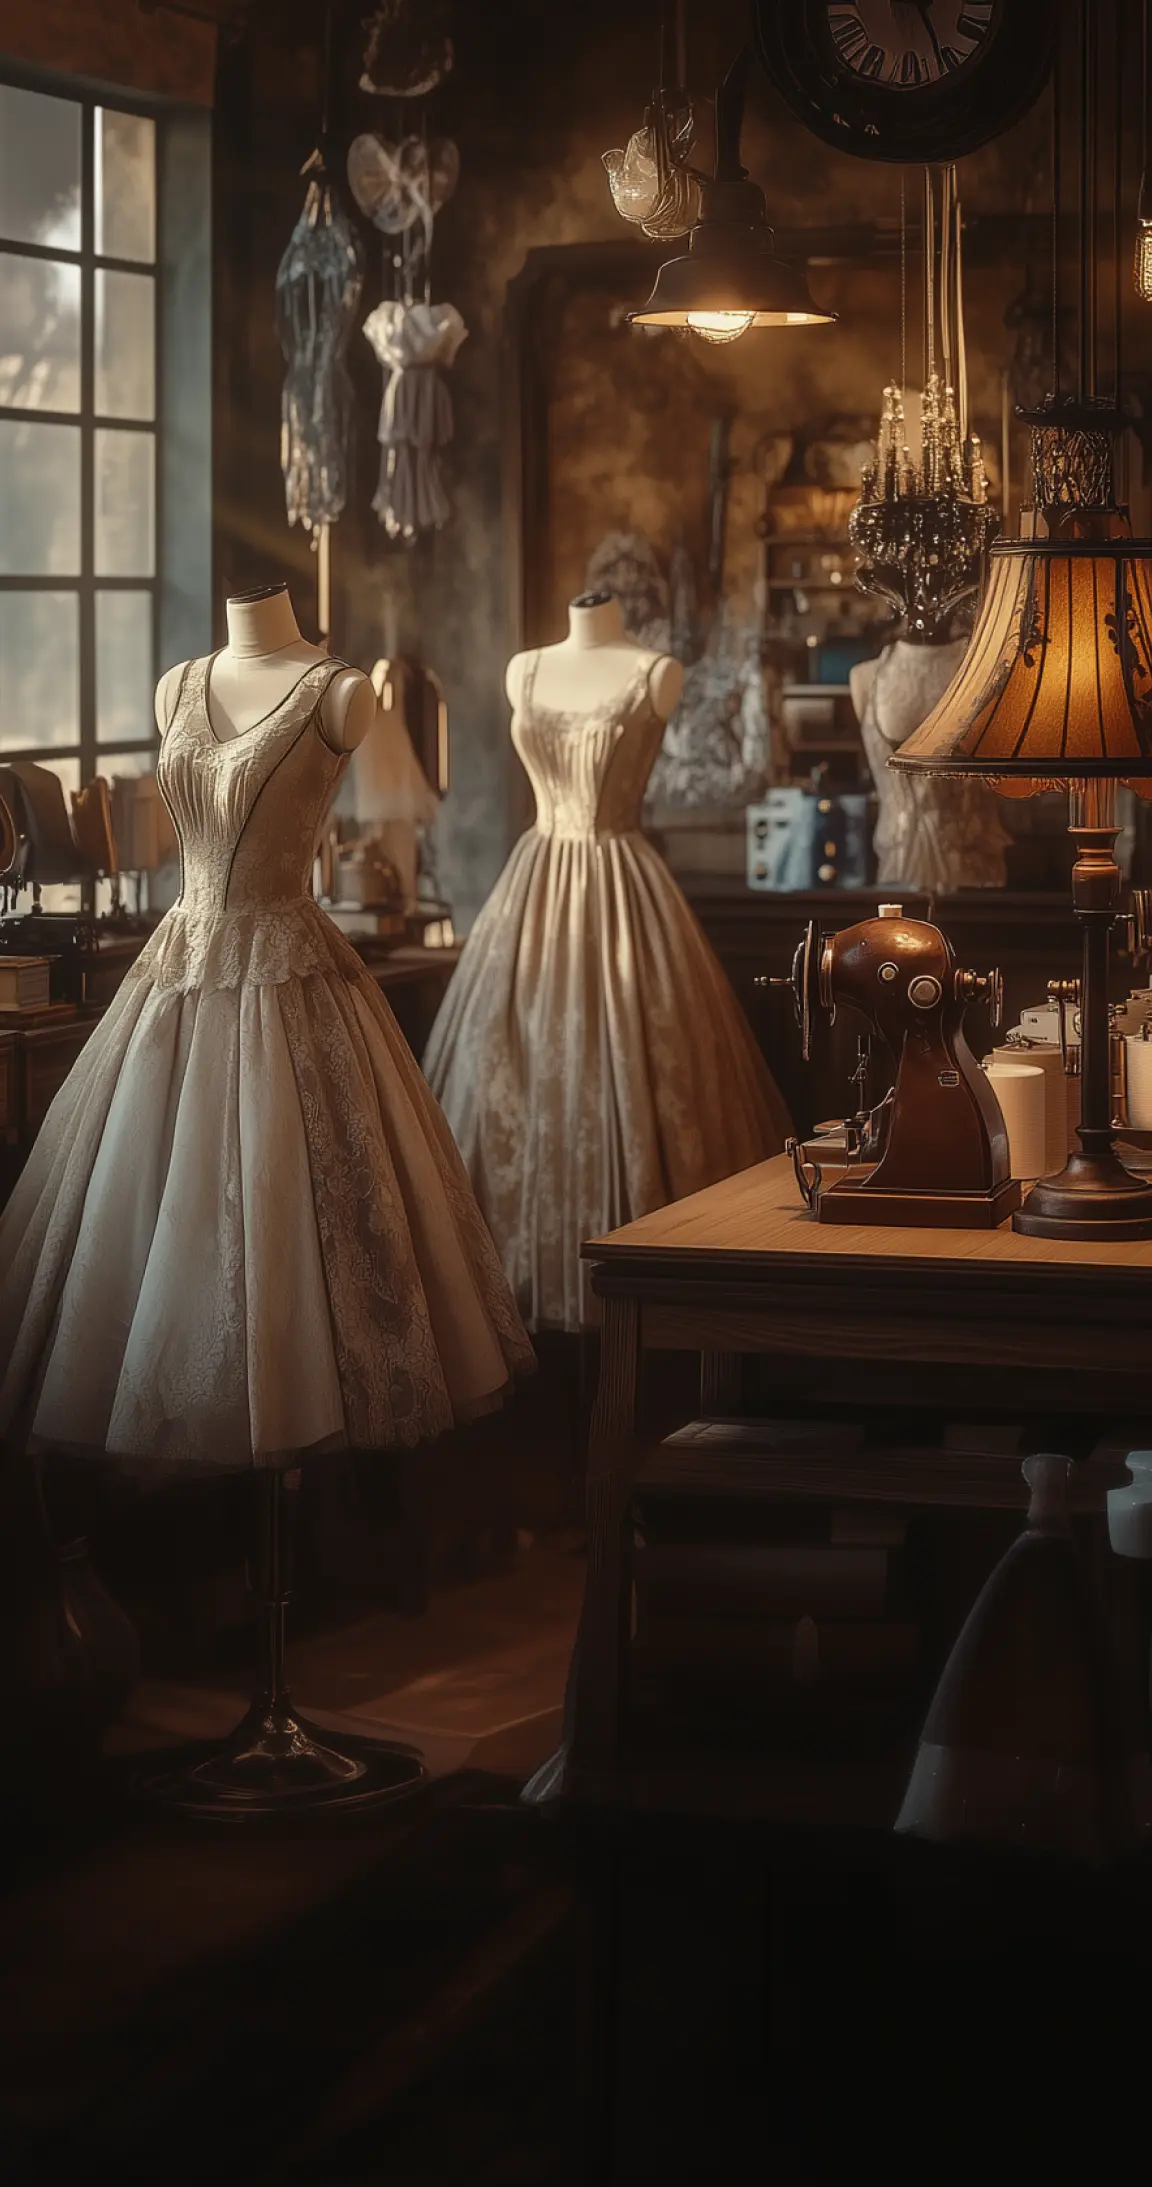
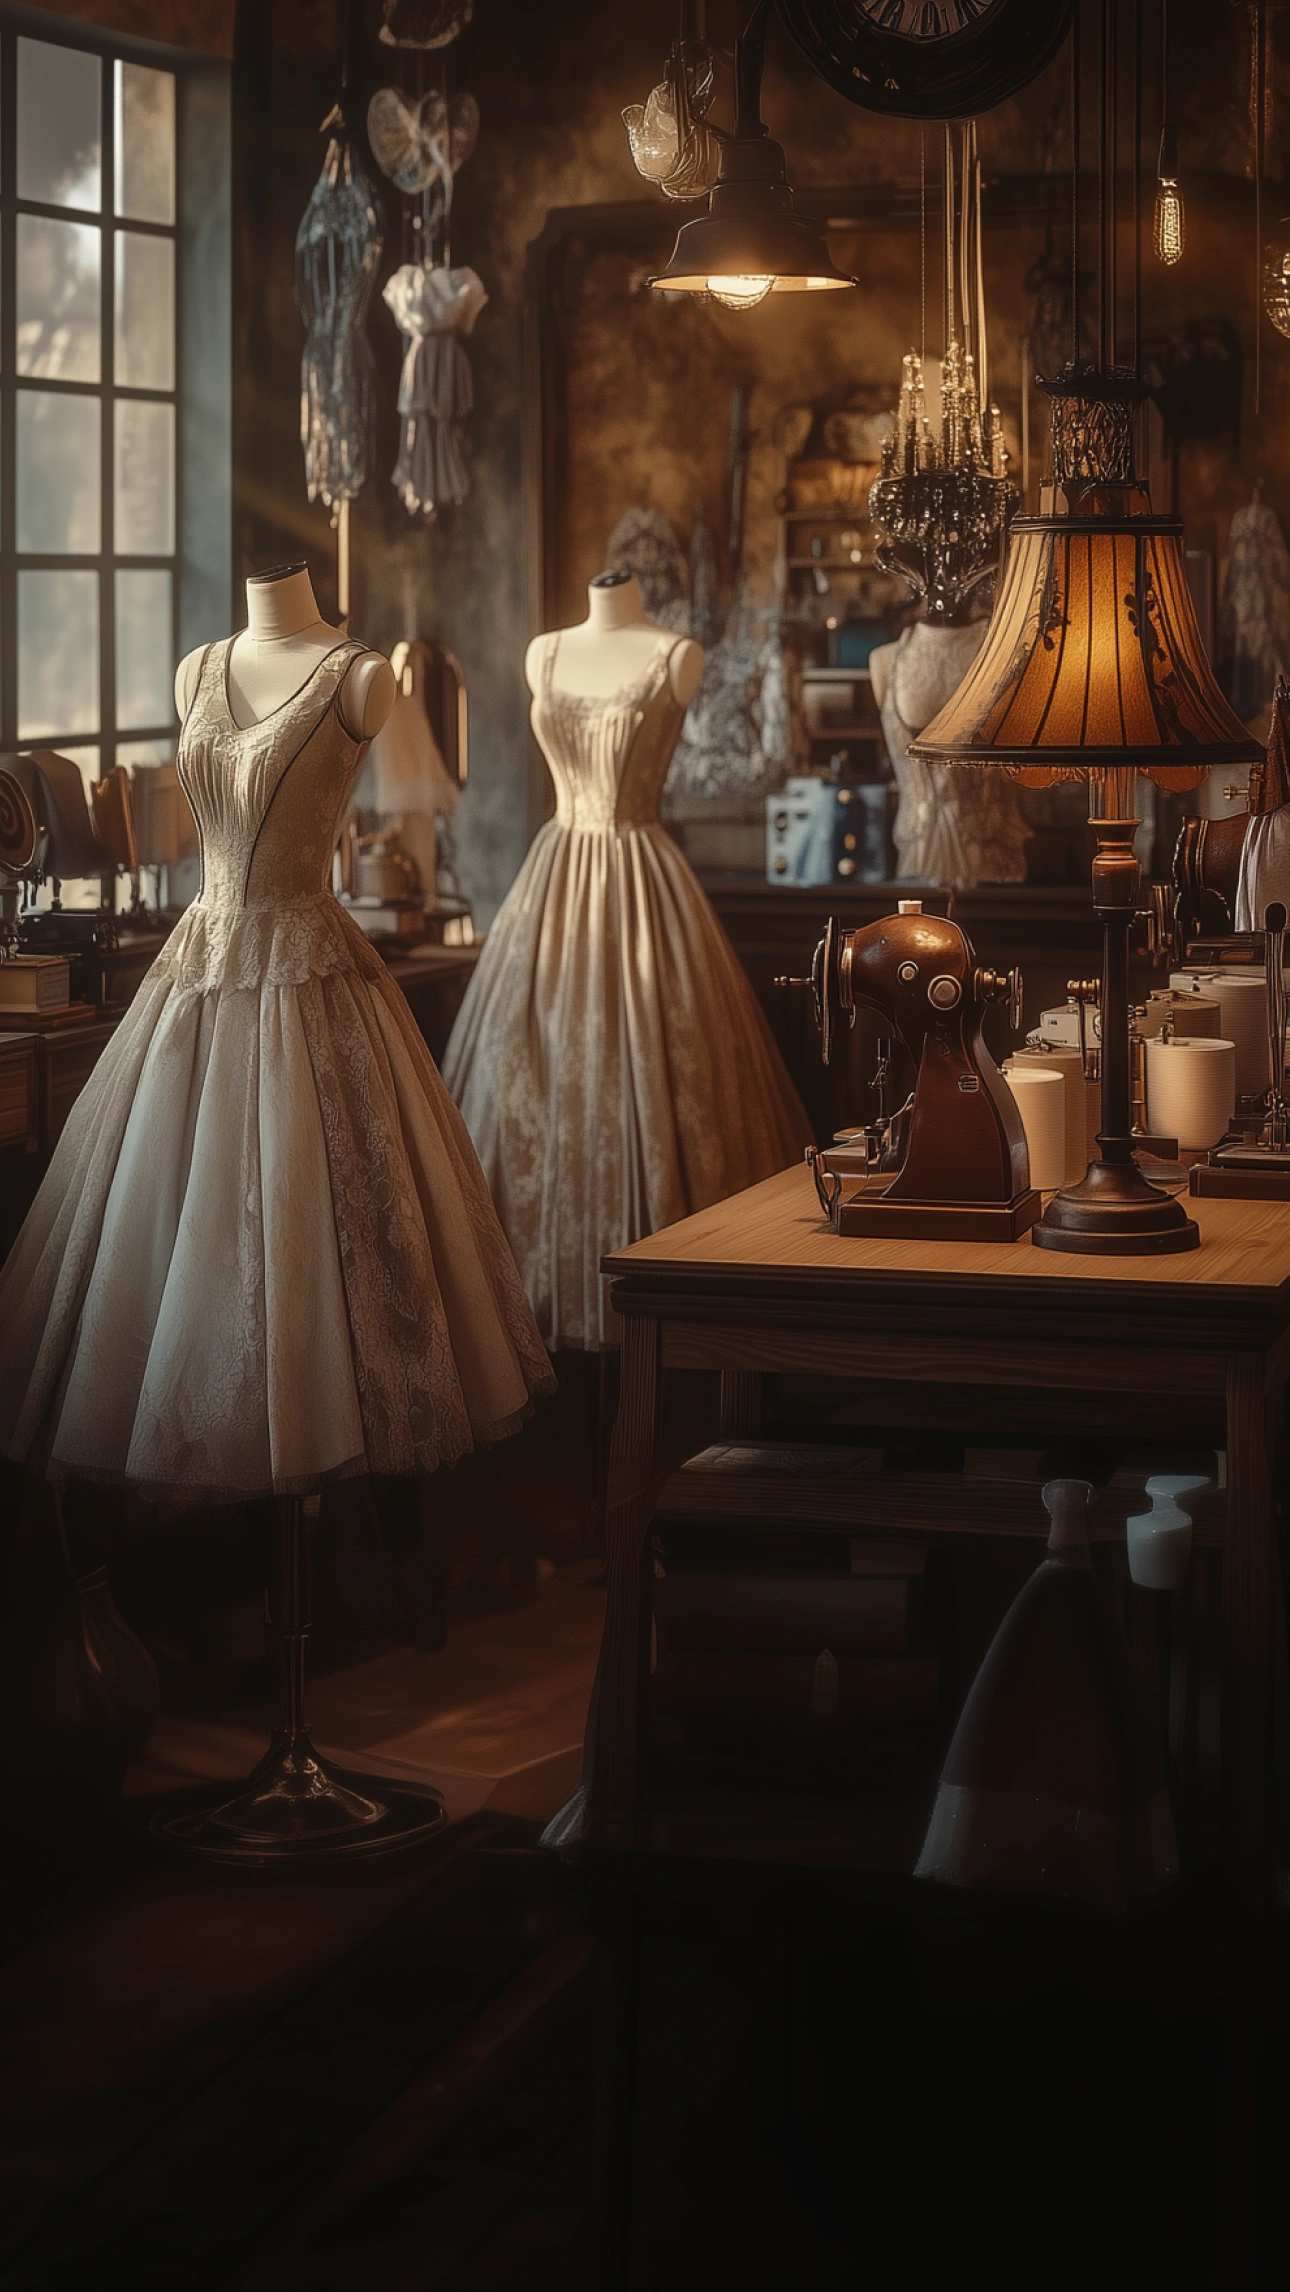
ref

diff --git a/src/app/Crowdfunding/HeaderCrowdfundingMobile.jsx b/src/app/Crowdfunding/HeaderCrowdfundingMobile.jsx
@@ -1,6 +1,6 @@
-import React, { useState, useEffect } from "react";
+import React, { useState, useEffect, useRef } from "react";
 import FundraisingProgress from './components/Progres';
-import Title from "./components/Title";
+import Title from './components/Title';
 import VideoPlayer from './components/VideoMobile/VideoPlayer';
 import Icons from './components/VideoMobile/Icons';
 import { images } from './constants/carouselData';
@@ -14,6 +14,8 @@ const HeaderCrowdfundingMobile = () => {
     const isMobile = useDeviceType();
     const [activeSection, setActiveSection] = useState('overview');
     const [isVideoVisible, setIsVideoVisible] = useState(false);
+    const [gradientStart, setGradientStart] = useState(0);
+    const containerRef = useRef(null);  // Referință pentru componentă
 
     useEffect(() => {
         if (window.location.hash) {
@@ -30,6 +32,15 @@ const HeaderCrowdfundingMobile = () => {
         };
     }, []);
 
+    useEffect(() => {
+        // Măsoară înălțimea componentei și calculează 61.76%
+        if (containerRef.current) {
+            const height = containerRef.current.offsetHeight;
+            const startGradient = height * 0.6176; // Calculează 61.76% din înălțime
+            setGradientStart(startGradient);
+        }
+    }, [containerRef]);
+
     const handleScreenClick = () => {
         setIsVideoVisible(true);
         document.body.classList.add('overflow-hidden'); // Previne scroll-ul în timpul redării video
@@ -44,47 +55,51 @@ const HeaderCrowdfundingMobile = () => {
     };
 
     return (
-        <div className={`headerMobile flex flex-col bg-black ${styles.headerCrowdfunding} ${isVideoVisible ? 'hidden' : ''}`}>
+        <div ref={containerRef} className={`headerMobile flex flex-col bg-black ${styles.bgMobileHeader} ${isVideoVisible ? 'hidden' : ''}`}>
             <div 
                 className="relative" 
                 style={{ 
-                    height: '100vh',  // Setează înălțimea să fie egală cu înălțimea ecranului
-                    minHeight: '0',
+                    width: '100%',  // Lățimea 100% din containerul părinte
+                    aspectRatio: '9 / 16',  // Setează proporția 9:16 pentru a păstra corect raportul
+                    overflow: 'hidden', // Ascunde orice conținut care depășește proporția
+                    position: 'relative'  // Important pentru poziționarea corectă a butonului
                 }}
             >
-<div className={`${styles.bgMobileAtelier}`} style={{ height: '100%', overflow: 'hidden' }}>
-    <div
-        style={{
-            height: '100%',
-            backgroundImage: `url(${currentData.imageUrl})`,
-            backgroundSize: 'cover',
-            backgroundPosition: 'center',
-            WebkitBackgroundClip: 'padding-box',
-            backgroundClip: 'padding-box',
-            backgroundRepeat: 'no-repeat',
-            position: 'relative',
-        }}
-    >
-        <div
-            style={{
-                position: 'absolute',
-                bottom: 0,
-                width: '100%',
-                height: '40%', // Ajustează înălțimea gradientului
-                backgroundImage: 'linear-gradient(to top, rgba(0, 0, 0, 0.8) 0%, rgba(0, 0, 0, 0) 100%)',
-            }}
-        />
-        {/* Buton de Play pentru versiunea mobilă */}
-        <button 
-            onClick={handleScreenClick} 
-            className="absolute inset-0 flex items-center justify-center z-20 bg-transparent"
-        >
-            <img src="/imgs/pause.svg" alt="Play Video" className="w-[50px] h-[50px]" />
-        </button>
-    </div>
-</div>
+                <div 
+                    className={`${styles.bgMobileHeader}`} 
+                    style={{ 
+                        width: '100%', 
+                        height: '100%', 
+                        backgroundImage: `url(${currentData.imageUrl})`, 
+                        backgroundSize: 'cover', // Păstrează proporțiile imaginii 
+                        backgroundPosition: 'center', // Centrează imaginea
+                        backgroundRepeat: 'no-repeat',
+                        position: 'relative',  // Necesită pentru poziționarea butonului relativ la această imagine
+                    }} 
+                >
+                <div
+                    style={{
+                        position: 'absolute',
+                        bottom: 0,
+                        width: '100%',
+                        top: `${gradientStart}px`,  // Gradientul începe după 61.76% din înălțimea componentei
+                        backgroundImage: 'linear-gradient(to top, rgba(0, 0, 0, 0.8) 0%, rgba(0, 0, 0, 0) 100%)',
+                    }}
+                />
+                {/* Buton de Play pentru versiunea mobilă */}
+                <button 
+                    onClick={handleScreenClick} 
+                    className="absolute flex items-center justify-center z-20 bg-transparent"
+                    style={{
+                        top: '34.42%', // Amplasare la 34.42% din înălțimea imaginii de fundal
+                        left: '50%', // Centrează butonul pe orizontală
+                        transform: 'translate(-50%, -50%)', // Ajustare pentru centrare pe orizontală și verticală
+                    }}
+                >
+                    <img src="/imgs/pause.svg" alt="Play Video" className="w-[50px] h-[50px]" />
+                </button>
 
-
+                </div>
             </div>
 
             {/* Afișare VideoPlayer dacă isVideoVisible este true */}
@@ -99,7 +114,7 @@ const HeaderCrowdfundingMobile = () => {
             <div 
                 className="bg-black flex flex-col justify-start px-5 relative" 
                 style={{ 
-                    height: '14.9vh', 
+                    height: '0px', 
                     minHeight: '0', 
                 }}
             >
@@ -118,12 +133,11 @@ const HeaderCrowdfundingMobile = () => {
                         pointerEvents: 'none',
                     }}
                 ></div>
-
                 <div 
                     className="max-w-screen-lg w-full flex flex-col gap-4 mb-10 relative z-10"
                     style={{
                         fontSize: 'calc(1rem + 0.7vw)',
-                        transform: 'translateY(-120px)' // Adăugat transform pentru a ridica conținutul
+                        transform: 'translateY(-130%)' // Am modificat transform pentru a ridica conținutul cu 20%
                     }}
                 >
                     <Title title={currentData.title} description={currentData.description} />
@@ -133,11 +147,6 @@ const HeaderCrowdfundingMobile = () => {
 
             {/* Icons pentru controlul sunetului */}
             <Icons handleScreenClick={handleScreenClick} />
-
-            {/* NavBar pentru mobil sau desktop */}
-            {/* <div className="">
-                {isMobile ? <NavBarCrowdfundingMobile setActiveSection={setActiveSection} /> : <NavBarCrowdfunding setActiveSection={setActiveSection} />}
-            </div> */}
         </div>
     );
 };

diff --git a/src/app/Crowdfunding/components/Title.jsx b/src/app/Crowdfunding/components/Title.jsx
@@ -9,11 +9,10 @@ const Title = ({ contentIndex = 0 }) => {
   }
 
   return (
-    <div className="space-y-[6px] w-full text-center lg:text-start">
-<h1 className="text-white text-[36px] font-extrabold font-ekMukta max-md:text-2xl" style={{ lineHeight: '105%' }}>
-  {content.title}
-</h1>
-
+    <div className="space-y-2 w-full text-center lg:text-start">
+      <h1 className="text-white text-[36px] font-extrabold font-ekMukta max-md:text-2xl" style={{ lineHeight: '105%' }}>
+        {content.title}
+      </h1>
       <p 
       className="text-[#B7B7B7] lg:text-[#FFFFFF] text-[16px] font-ekmukta-extralight lg:font-ekmukta w-full lg:w-[71%] lg:px-0 md:px-1 "
       style={{ lineHeight: '120%' }}

diff --git a/src/app/Crowdfunding/components/mobile/Share/ShareButton.jsx b/src/app/Crowdfunding/components/mobile/Share/ShareButton.jsx
@@ -12,7 +12,7 @@ const ShareButton = ({ url }) => {
             <RWebShare
             data={{
                 text: "Paradise Problems",
-                url: "http://paradiseproblems.com",
+                url: "https://paradiseproblems.com/costumeatelier",
                 title: "Paradise Problems",
             }}
             onClick={() => console.log("shared successfully!")}
